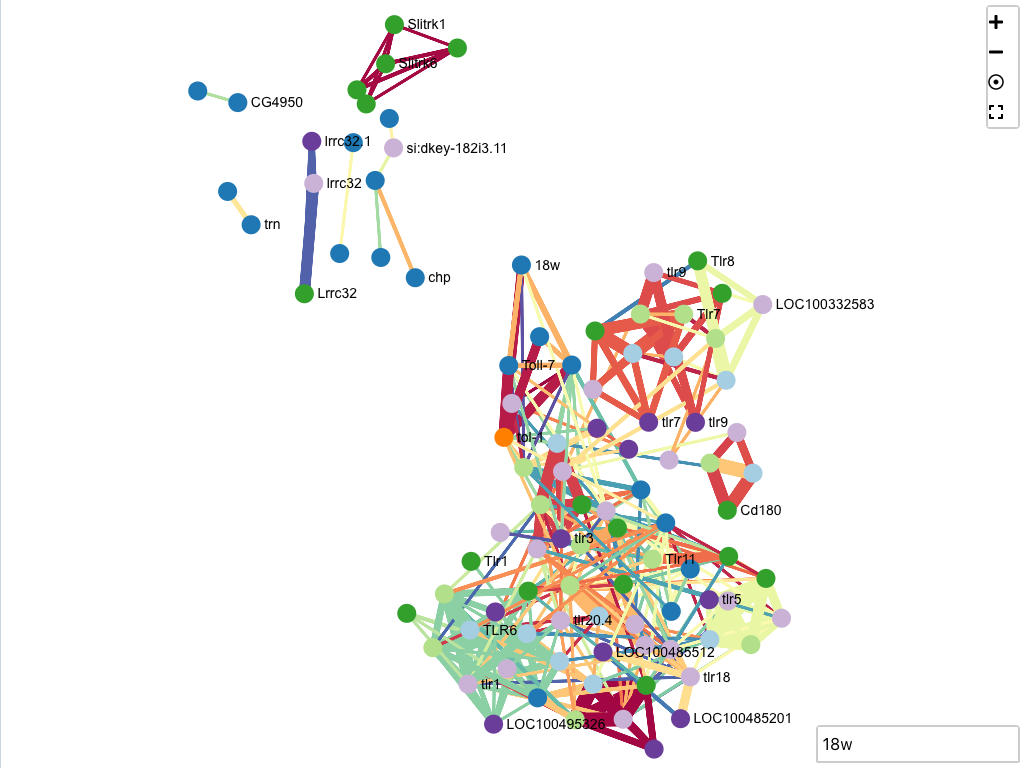
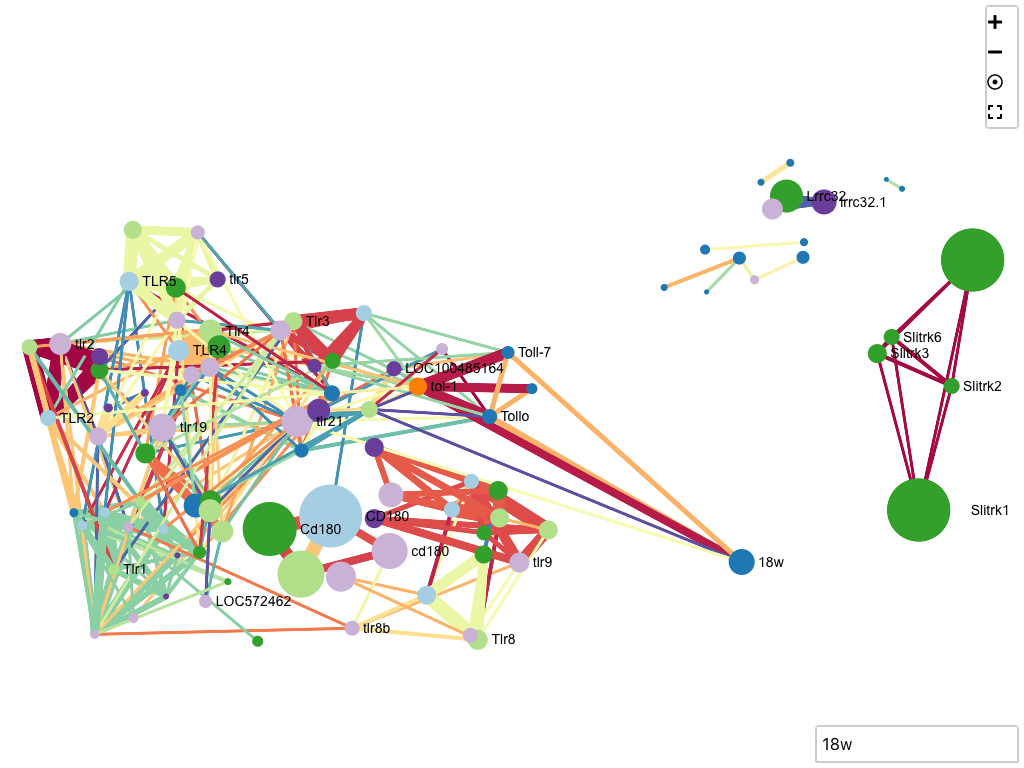
Add example 3

diff --git a/docs/draft_report.md b/docs/draft_report.md
@@ -420,9 +420,15 @@ of the 4 *D. melanogaster* genes.
 
 ## Example 3
 
-18w
+In Figure XX, the gene homology network for 18w in *D. melanogaster* is shown. 18w is a gene that contributes to multiple processes including ovarian follicle cell migration, antibacterial humoral response and ventral cord development^[18w].
+In part A, you see the entirety of the complex network that 18w is associated with. In part b, the same network is shown,
+but with homology calls with scores of less than 4 removed.  This demonstrates the ease with which the tool can be used
+to remove complexity and allow researches to focus on high value data easily.
+
 ![18w network before filtering by score](./images/18w_pre_filtered_network.png)
 ![18w network after filtering by score](./images/18w_post_filtered_network.png)
+**Figure XX A and B** - Gene homology network of 18w in *D. melanogaster*. Figure XXA displays a complex network with
+many interconnections. Figure XXB displays the same network, but with all homology scores of less than 4 removed.
 
 # Discussion
 
@@ -455,3 +461,5 @@ Hu Y, Flockhart I, Vinayagam A, Bergwitz C, Berger B, Perrimon N, Mohr SE. An in
 PTEN, https://www.alliancegenome.org/gene/HGNC:9588#disease-associations
 
 BCL6, https://www.alliancegenome.org/gene/HGNC:1001#disease-associations
+
+18w, https://www.alliancegenome.org/gene/FB:FBgn0004364#summary
